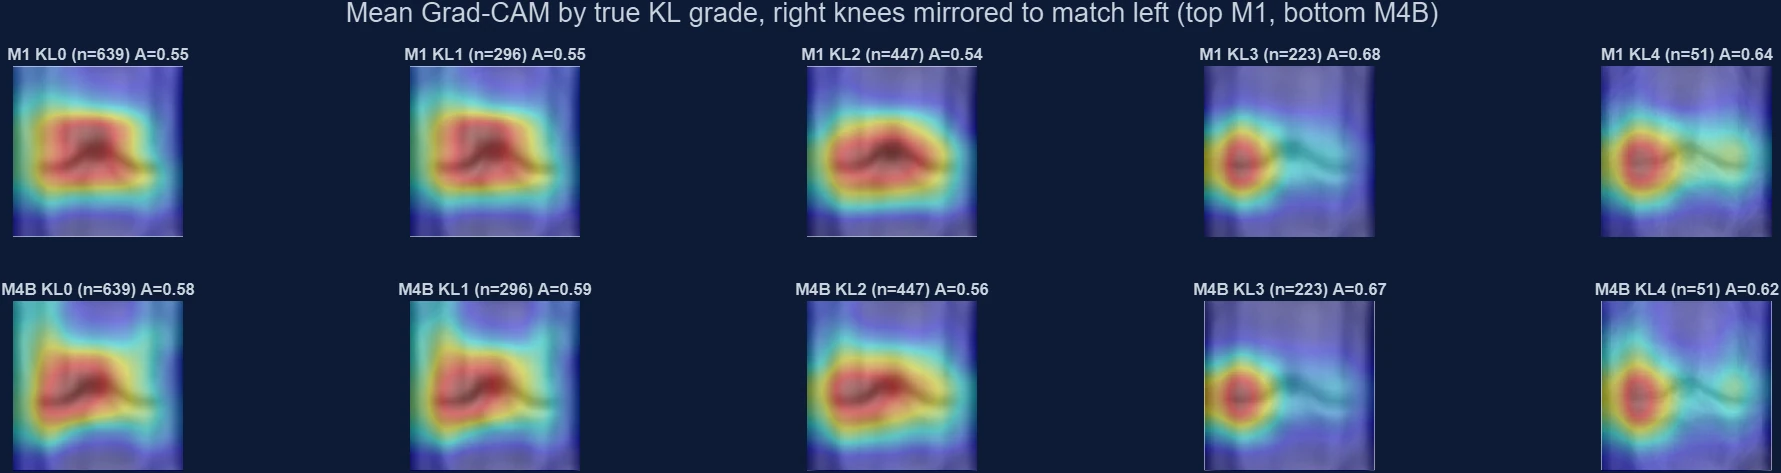
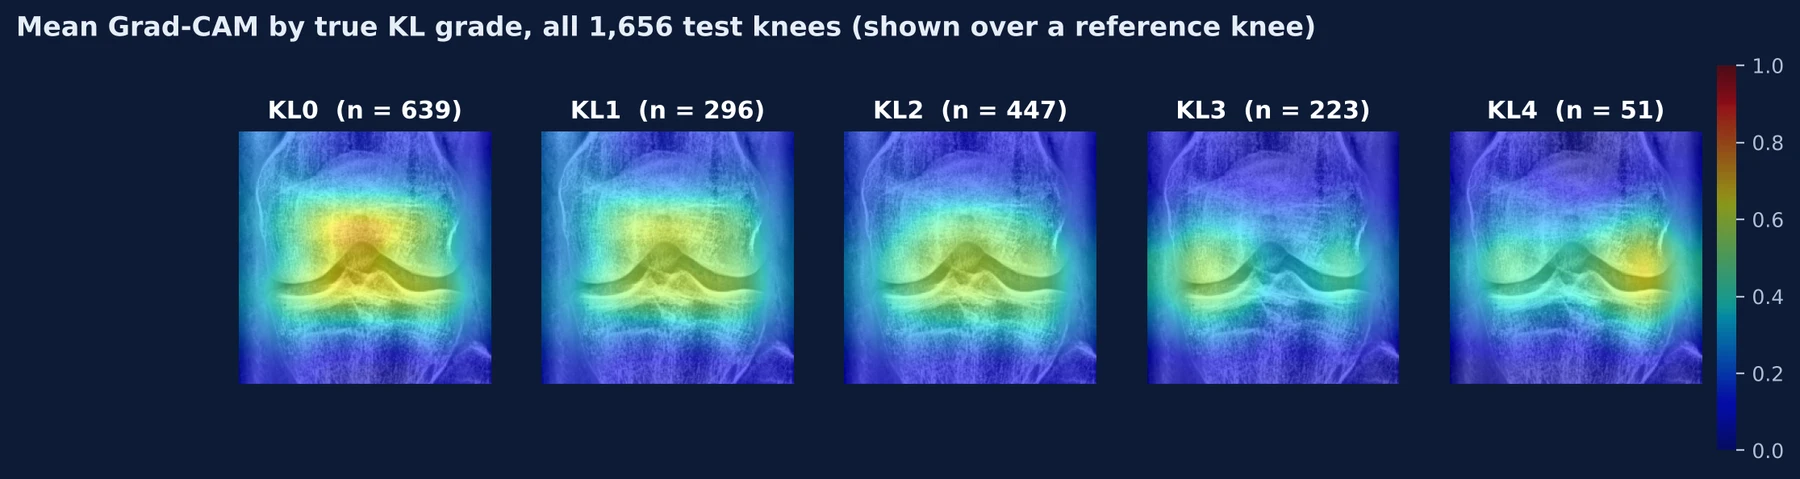
Figures: plain-language explanation per figure in the lightbox; restore browser-pipeline Grad-CAM figures

diff --git a/src/App.jsx b/src/App.jsx
@@ -525,6 +525,91 @@ const FIGS = [
 ];
 const CATS = ['All', 'Errors', '5-grade', 'Comparison', 'Reliability', 'Explainability', 'Training', 'Data'];
 
+// Plain-language notes shown in the lightbox: [how to read it, what it tells us]. Numbers only from the figures themselves.
+const EXPLAIN = {
+  Fig01_dataset_class_distribution: [
+    'Left: how many knee X-rays there are for each Kellgren–Lawrence (KL) grade, from KL0 (healthy) to KL4 (severe), split into the training set (used to teach the model), the validation set (used to choose settings) and the test set (used once, for the final score). Right: how much weight each severity group was given during training.',
+    'The data are very unbalanced: there are 13 healthy (KL0) knees for every severe (KL4) knee. A model trained on this naturally favours the common grades, so the rarer groups were given more weight, with an extra boost for KL2, the hardest group to recognise.'],
+  Fig02_threegroup_model_comparison_CI: [
+    'Each row is one network design, trained and tested the same way on the same 1,656 test knees. The filled dot is accuracy (the percentage of knees put in the right severity group); its bar is the 95% confidence interval, the range the true value most likely lies in. The hollow circle is balanced accuracy (every group counts equally, however common), the diamond is macro F1 (a combined score of hits and false alarms), and QWK on the right is agreement with the reference grades that gives partial credit for near misses. The dashed line is the project target of 75%.',
+    'Bigger networks (ResNet-50 and ResNet-101) and EfficientNet-B0 did not beat the small ResNet-18. The final pipeline reached 74.94%, one knee short of the 75% target. The confidence bars overlap a lot, so most of the differences between the ResNets are within noise.'],
+  Fig03_CM_ResNet18_50_101: [
+    'A confusion matrix compares the truth with the model’s answer. Rows are the true severity group, columns are what the model predicted, and each square shows the number of knees and the percentage of that row. The diagonal (top-left to bottom-right) holds the correct answers; every other square is a mistake.',
+    'All three network depths make the same main mistake (outlined in orange): 40–46% of knees with minimal OA (KL2) are called healthy or doubtful (KL0–1). Making the network deeper does not fix it, which suggests the difficulty lies in how subtle KL2 changes are on an X-ray, not in the size of the network.'],
+  Fig04_CM_final_3group: [
+    'Confusion matrix of the final pipeline, the one running in the app. Rows are the true severity group, columns are the prediction, and each square shows the count and the percentage of that row. The diagonal is correct.',
+    'Healthy or doubtful knees (KL0–1) are recognised 88% of the time and moderate to severe knees (KL3–4) 76% of the time, but minimal OA (KL2) only 47%: 193 KL2 knees (outlined) were called KL0–1. That single error is the main reason the overall score is 74.94% rather than higher.'],
+  Fig05_perclass_final_3group: [
+    'Four scores for each severity group. Recall: of the knees truly in this group, how many the model found. Precision: of the knees the model put in this group, how many really belong there. F1: a balance of recall and precision. Specificity: of the knees not in this group, how many the model correctly kept out. n is the number of test knees in the group.',
+    'KL2 is the bottleneck: the model finds only 47.4% of KL2 knees, against 87.7% for KL0–1 and 76.3% for KL3–4. Specificity is lowest for KL0–1 (69.9%) because uncertain knees tend to be pushed into the healthy group.'],
+  Fig06_EfficientNetB0_fair_test: [
+    'Left: the same five scores for ResNet-18 (teal) and EfficientNet-B0 (orange), both trained and tested with exactly the same recipe. Right: EfficientNet-B0’s confusion matrix (rows = true group, columns = prediction, diagonal = correct).',
+    'EfficientNet-B0 is 3.8 points less accurate overall, and the p-value of 0.001 means a gap that large is very unlikely to be chance. It does find more KL2 knees (55.9% vs 46.8%), but at a cost: 94 moderate to severe knees (outlined) were downgraded to KL2.'],
+  Fig07_paired_comparisons_forest: [
+    'Each row compares two models on exactly the same test knees. The dot is the difference in accuracy (percentage points) and the bar is its 95% confidence interval. If the bar crosses the vertical zero line, the two models are not reliably different. Orange rows are the comparisons where the difference is real; p is the probability of seeing a gap this large by chance.',
+    'Most design choices made no reliable difference, including deeper ResNets and adding the mirror image at test time (+0.91 points, p = 0.17). Only three comparisons are clear: EfficientNet-B0 is worse than ResNet-18, the cross-entropy five-grade model (M4) beats the five-grade reference, and the CORAL ordinal model (M4C) is worse than the final ordinal model (M4B).'],
+  Train_R18: [
+    'How training progressed over time (iterations, left to right) for three copies of ResNet-18 started from different random seeds. Left: accuracy; right: loss, the error the network is trying to reduce (lower is better). Thin lines are the training images, bold lines the validation images the network never learns from. Dots mark the point where each copy was saved.',
+    'Training accuracy keeps rising while validation levels off at about 70%. Past that point the network starts memorising its training images instead of learning patterns that carry over to new knees (overfitting). Each copy was saved at its lowest validation loss, before that happens, and the three saved copies together form Model 1, the final model.'],
+  Train_R50: [
+    'Same layout as the ResNet-18 curves: three random seeds, accuracy on the left, loss on the right; thin lines are training, bold lines validation, dots the saved networks.',
+    'ResNet-50 drives the training loss lower than ResNet-18, but its validation accuracy ends in the same place, at about 70%. The bigger network memorises more without doing better on knees it has not seen.'],
+  Train_R101: [
+    'Same layout: three random seeds, accuracy left, loss right; thin lines are training, bold lines validation, dots the saved networks.',
+    'ResNet-101, the deepest network tested, shows the widest gap between its training curves (noisy, often far above or below) and its flat validation curves. The extra depth adds memorisation, not accuracy on new knees.'],
+  Train_EffB0: [
+    'Same layout: three random seeds, accuracy left, loss right; thin lines are training, bold lines validation, dots the saved networks.',
+    'EfficientNet-B0 trains for much longer (its best points come after roughly 2,000 to 3,600 iterations) and its training and validation curves stay closer together. The curves look healthy, yet its test accuracy was still lower than ResNet-18 (see the EfficientNet-B0 comparison figure).'],
+  Fig09_efficiency_size_speed_overfitting: [
+    'A: test accuracy against network size, in millions of parameters. B: the time one network needs to analyse one image on an ordinary computer processor. C: how much better each network scores on its training images than on validation images, a simple measure of overfitting.',
+    'The smallest network, ResNet-18, is as accurate as ResNet-101 while being about four times smaller, almost four times faster (8.4 vs 31.6 ms) and overfitting half as much. That is why it was chosen, and why the whole pipeline is light enough to run in your browser.'],
+  Fig10_task_framing_5grade_vs_3group: [
+    'Teal bars are models that predict all five KL grades; blue bars are models that predict the three severity groups. The darker bar of each pair is accuracy, the lighter one balanced accuracy (every grade counts equally).',
+    'Five-grade models get 55–59% exactly right, three-group models about 75%. Even the five-grade Model 4B reaches 75.1% once its answers are merged into three groups. The jump comes from the easier question, mainly because the subtle KL0/KL1 boundary disappears, not from a better network.'],
+  Fig11_CM_M4B_5grade: [
+    'Five-grade confusion matrix of Model 4B, the model behind the KL grade shown in the app. Rows are the true KL grade, columns the prediction. The diagonal is exactly right; squares next to the diagonal are one grade off.',
+    'Model 4B gets 58.88% of knees exactly right and 86.7% within one grade. Its weakest spot is KL1, which means only doubtful changes: 191 of 296 KL1 knees (65%, outlined) are called KL0. Almost all other mistakes are one grade off.'],
+  Fig12_pergrade_recall_5grade: [
+    'Recall for each true KL grade: of the knees truly at that grade, the percentage the model got exactly right. Three five-grade models are shown; n is the number of test knees at each grade.',
+    'Every model recognises KL0 and KL4 well and struggles with KL1 (12–25%). The final ordinal model (teal) finds more KL1 and KL2 knees than the cross-entropy model at almost no cost elsewhere. The orange EfficientNet-B0 used one seed and a different recipe, so it is shown for context only.'],
+  Fig13_error_analysis_final_3group: [
+    'A: every mistake the final pipeline made on the test set, grouped by type (true group → predicted group); orange bars are mistakes two groups away. B: how many knees are truly in each group (grey) compared with how many the model put there (teal).',
+    '92.5% of the 415 mistakes are to a neighbouring group; the model rarely confuses healthy with moderate or severe (31 knees). It leans towards the healthy side: it predicts 102 more KL0–1 knees than there really are, mostly taken from KL2.'],
+  Fig14_calibration_ECE_reliability: [
+    'A: calibration error (ECE) for each model, i.e. how far the confidence it states is from how often it is actually right; lower is better. B: reliability curves. Knees are grouped by the model’s confidence, and each point shows how often the knees in that group were really correct. A perfectly honest model would sit on the dashed diagonal.',
+    'The final model is off by only 3.7% on average: when it says 80%, it is right roughly 80% of the time, so the confidence shown in the app can be read roughly at face value. The CORAL model (M4C, 9.8%) is the one poorly calibrated exception.'],
+  Fig15_review_flags: [
+    'Each row is one of the app’s automatic “review recommended” warnings; the percentage in brackets is how many test knees triggered it. The hollow circle is accuracy on knees that triggered the warning, the filled dot accuracy on knees that did not. The dashed line is the overall accuracy.',
+    'The warnings work: knees with any flag are right only 56.9% of the time, while unflagged knees are right 81.7% of the time. Flagging 27.2% of knees for a second look catches 46.7% of all mistakes, so a clinician knows which cases deserve extra attention.'],
+  Fig16_validation_candidate_selection: [
+    'Four candidate pipelines scored on the validation set (826 knees not used for training or for the final test). The filled dot is accuracy, the hollow circle balanced accuracy, and QWK on the right is agreement with the reference grades with partial credit for near misses.',
+    'The winner, B (Model 1 plus the mirror image at test time), was picked by a rule written down before testing and then run on the test set exactly once. This avoids tuning on the test data, a common trap that makes results look better than they are. Adding ResNet-101 (C and D) did not help.'],
+  Fig17_seed_variability: [
+    'Grey dots: test balanced accuracy of single networks trained from three different random starting points (seeds 42, 7 and 123). Green diamond: the three combined into an ensemble. Dashed line: the ResNet-18 ensemble used in the final model. SD is the spread between the single networks.',
+    'The same network trained three times can differ by up to 7 points, as one ResNet-101 run shows. Averaging the three removes such an outlier and gives a steadier result, which is why the final model is a three-seed ensemble. Single-seed ResNet-18 results were not saved, so it appears only as the line.'],
+  Fig18_CM_EfficientNetB0_exploratory_5grade: [
+    'Five-grade confusion matrix of an early, exploratory EfficientNet-B0. Rows are the true KL grade, columns the prediction; the diagonal is correct.',
+    'It scored 60.63% exactly right, but it was a single network trained with a simpler recipe (no contrast enhancement, no augmentation, no class weighting) and kept at its last training step, so it cannot be compared fairly with the final ensembles. It is kept as a reference point from early in the project.'],
+  Fig19_binary_vs_literature: [
+    'Accuracy on the simpler yes/no question “is there definite osteoarthritis?” (KL0–1 versus KL2–4) for each model. The dashed line is the published ResNet result of Mohammed et al. (2023) on the same question.',
+    'On this matched task every model lands between 78.5% and 80%, in line with the published 79.7%; the final pipeline scores 79.95%. So the project matches the literature, and its lower three-group score reflects a harder question, not a weaker model.'],
+  Fig20_GradCAM_audit: [
+    'Grad-CAM is a heat map of the parts of the X-ray that most influenced the model. A: the share of that heat falling inside the joint space (where osteoarthritis shows) and on the image border, compared with what random placement (“chance”) would give. B: how much the model’s confidence drops when the 10 hottest, 10 random or 10 coolest regions of the heat map are hidden.',
+    'The models focus on the joint 1.6 times more than chance and look at the image border less than chance. Hiding the hottest regions lowers confidence more than hiding random ones (0.41 vs 0.29), and hiding the coolest regions does nothing, so the heat maps really point at what the model uses.'],
+  Fig21_M4B_recall_precision_by_grade: [
+    'For each true KL grade, the bar is recall (the percentage of knees at that grade the model found) and the white tick is precision (of the knees the model called that grade, the percentage that were right). n is the number of test knees at each grade.',
+    'KL0, KL3 and KL4 are found most of the time, but only 18.6% of KL1 knees are found, and when the model does answer KL1 it is right only 29.3% of the time. A five-grade answer of KL1 should therefore be read as uncertain.'],
+  Fig22_final_3group_by_original_KL: [
+    'Each bar is one original KL grade, split by the severity group the final model put those knees in: teal = KL0–1, orange = KL2, purple = KL3–4.',
+    'KL0 and KL4 knees almost always land in the right group (92% and 100%). The mistakes come from the borderline grades: 20% of KL1 knees move up to KL2, 43% of KL2 knees move down to KL0–1, and 29% of KL3 knees move down. Obvious cases are handled well; in-between cases cause the errors.'],
+  Supp_X01_GradCAM_overlays: [
+    'One test knee per KL grade (columns), the same five sample knees as in the app. Top row: the original X-ray. Middle: after contrast enhancement (CLAHE), which is what the model actually sees. Bottom: the Grad-CAM heat map laid over it (red = most influence on the decision, blue = least), with the model’s prediction and confidence underneath.',
+    'The model mostly looks at the joint space between the thigh and shin bones, where osteoarthritis changes appear. For the moderate and severe knees the heat concentrates on one side of the joint. These maps were made by the same code that runs in your browser.'],
+  Supp_X02_GradCAM_mean_by_grade: [
+    'The average Grad-CAM heat map over all 1,656 test knees, shown separately for each true KL grade and drawn over a reference knee. Red = where the model looked most on average; n is the number of knees averaged.',
+    'For every grade the attention sits across the joint space, not on bone far from the joint or on the image edges. This supports that the model reads the joint itself rather than shortcuts such as text markers or the image border.'],
+};
+
 function Gallery() {
   const [cat, setCat] = useState('All');
   const [open, setOpen] = useState(-1);
@@ -542,18 +627,22 @@ function Gallery() {
   return (
     <section id="figures" className="wrap sec">
       <div className="sec-head"><p className="eyebrow">Figures</p><h2>The full evaluation, figure by figure</h2>
-        <p>All figures from the project report, generated from the saved test predictions. Click any figure to enlarge; use the arrow keys to browse.</p></div>
+        <p>All figures from the project report, generated from the saved test predictions. Click any figure to enlarge it with a plain-language explanation of how to read it and what it shows; use the arrow keys to browse.</p></div>
       <div className="chips">{CATS.map(c => <button key={c} className={c === cat ? 'on' : ''} onClick={() => setCat(c)}>{c}{c !== 'All' && <small>{FIGS.filter(f => f[0] === c).length}</small>}</button>)}</div>
       <div className="gallery">{shown.map(([c, f, cap, i]) => (
         <button key={f} className="fig" onClick={() => setOpen(i)}>
           <span className={`paper `}><img src={`/figs/${f}.webp`} alt={cap} loading="lazy" /></span>
-          <span className="figcap"><em>{c}</em>{cap}</span>
+          <span className="figcap"><em>{c}</em>{cap}<small className="figmore">Explain this figure →</small></span>
         </button>))}</div>
       {open >= 0 && (
         <div className="lightbox" onClick={() => setOpen(-1)}>
           <figure onClick={e => e.stopPropagation()}>
             <img src={`/figs/${FIGS[open][1]}.webp`} alt={FIGS[open][2]} />
             <figcaption><em>{FIGS[open][0]}</em>{FIGS[open][2]}</figcaption>
+            {EXPLAIN[FIGS[open][1]] && <div className="lbtext">
+              <div><h4>How to read it</h4><p>{EXPLAIN[FIGS[open][1]][0]}</p></div>
+              <div><h4>What it tells us</h4><p>{EXPLAIN[FIGS[open][1]][1]}</p></div>
+            </div>}
           </figure>
           <button className="lbclose" aria-label="Close">×</button>
         </div>)}

diff --git a/src/styles.css b/src/styles.css
@@ -161,3 +161,8 @@ h2{font-size:clamp(28px,3.4vw,40px);line-height:1.15}h3{font-size:14px;font-weig
 .ovloop{grid-column:3/6;border:1.5px solid #f59e0b;border-radius:12px;padding:10px 16px;text-align:center;font-size:13.5px;color:#fcd34d;background:rgba(245,158,11,.07)}.ovloop b{color:#fbbf24;margin-right:8px}
 @media (max-width:1060px){.ov{grid-template-columns:1fr 1fr}.ovarrow{display:none}.ovloop{grid-column:1/-1}}@media (max-width:760px){.ov{grid-template-columns:1fr}}
 .fullcheck{margin-top:14px;border-left:3px solid var(--teal2);background:rgba(20,184,166,.08);border-radius:8px;padding:10px 14px;font-size:14.5px;color:var(--ink2)}.fullcheck b{color:#fff}
+.figmore{display:block;margin-top:6px;font:500 12.5px var(--sans);color:var(--teal2)}
+.lightbox{overflow-y:auto;place-items:start center}.lightbox figure{margin:auto 0}.lightbox img{max-height:64vh}
+.lbtext{display:grid;grid-template-columns:1fr 1fr;gap:14px;margin-top:14px;max-width:1100px}.lbtext>div{background:var(--card);border:1px solid var(--line);border-radius:12px;padding:14px 18px}
+.lbtext h4{margin:0 0 6px;font:500 11px var(--mono);letter-spacing:.1em;text-transform:uppercase;color:var(--teal2)}.lbtext p{margin:0;font-size:15px;line-height:1.6;color:var(--ink)}
+@media (max-width:760px){.lbtext{grid-template-columns:1fr}.lightbox{padding:16px}}

diff --git a/figs.py b/figs.py
@@ -6,7 +6,11 @@ src = pathlib.Path(sys.argv[1]); out = pathlib.Path('public/figs')
 block = pathlib.Path('src/App.jsx').read_text(encoding='utf-8').split('const FIGS = [')[1].split('\n];')[0]
 names = re.findall(r"\['[^']+', '([^']+)', '", block)
 have = {p.stem: p for p in src.glob('*.png')}
+# Made elsewhere, never overwrite: Train_* (train_curves.py) and the browser-pipeline Grad-CAM figures (gcfigs.py).
+# Web_DarkTheme's Supp_X01/X02 are different MATLAB montages that do not match the site captions.
+OWN = {'Supp_X01_GradCAM_overlays', 'Supp_X02_GradCAM_mean_by_grade'}
 for n in names:
+    if n in OWN: print('kept (gcfigs.py):', n); continue
     if n not in have: print('FIGS entry with no source image:', n); continue
     im = Image.open(have[n]).convert('RGBA')
     bg = Image.new('RGBA', im.size, (13, 27, 54, 255)); bg.alpha_composite(im); im = bg.convert('RGB')
